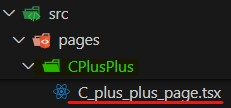
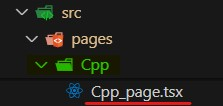
08-09-2025 23:36

diff --git a/src/pages/PageCreate/PageCreateComponents/SpecificationDocsPkg/CreateStepsSection/CreateStep1.tsx b/src/pages/PageCreate/PageCreateComponents/SpecificationDocsPkg/CreateStepsSection/CreateStep1.tsx
@@ -12,10 +12,10 @@ const CreateStep1 = ({ anchor }: { anchor: string }) => {
               go to <Span>pages</Span> folder
             </li>
             <li>
-              create new folder <Span>CPlusPlus</Span>
+              create new folder <Span>Cpp</Span>
             </li>
             <li>
-              Inside <Span>CPlusPlus</Span> , create new page component <Span>C_plus_plus.tsx</Span>
+              Inside <Span>Cpp</Span> , create new page component <Span>Cpp_page.tsx</Span>
             </li>
             <IMG img_name={page_create_1}></IMG>
             <li>add the below code in the created file</li>
@@ -29,8 +29,8 @@ const CreateStep1 = ({ anchor }: { anchor: string }) => {
 
 export default CreateStep1;
 
-const jsxCode_1 = `const C_plus_plus_page = () => {
+const jsxCode_1 = `const Cpp_page = () => {
   return <div className="text-3xl">C++ ...</div>;
 };
 
-export default C_plus_plus_page;`;
+export default Cpp_page;`;
